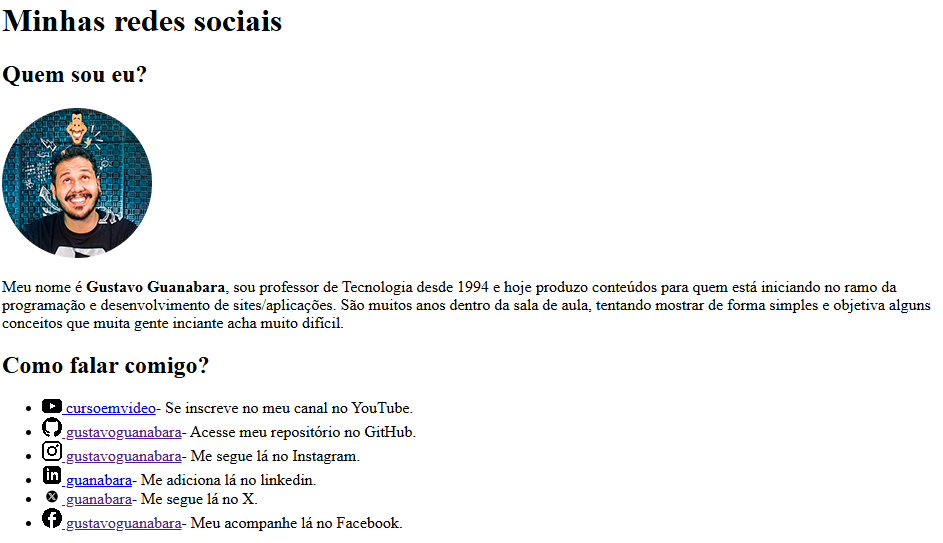
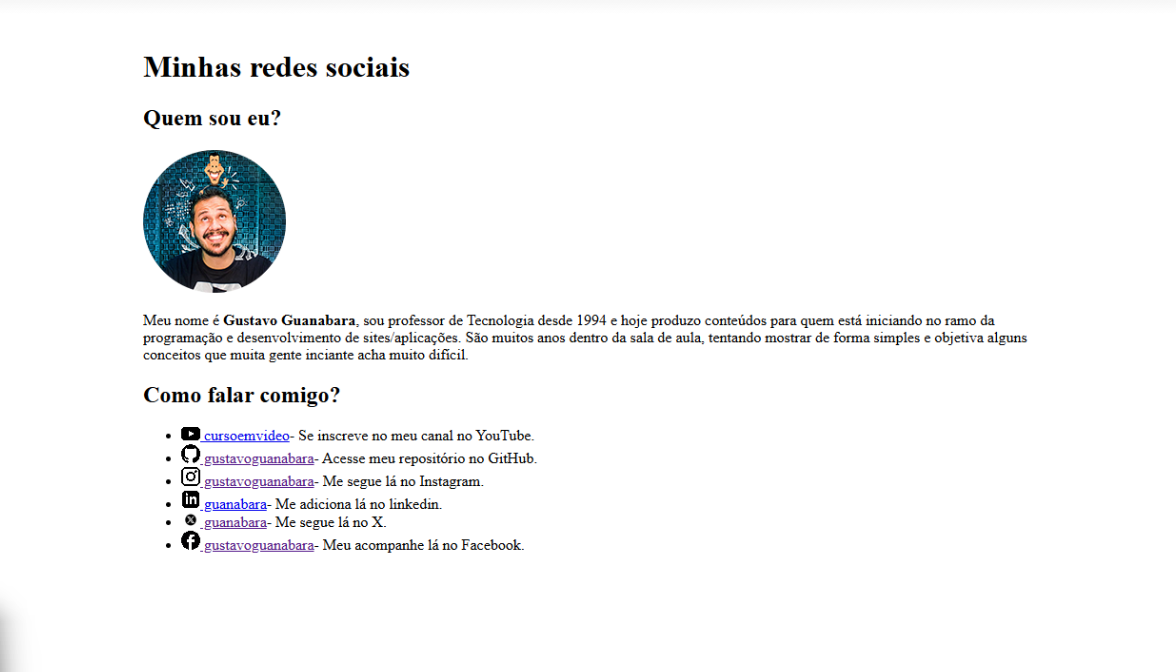
adicionando portifolio

Changed region(s): [[0.0, 0.0, 0.9841, 1.0]]

diff --git a/index.html b/index.html
@@ -208,10 +208,10 @@
 
                         <div id="projeto-container">
                             <div class="projeto">
-                                <img src="imagens/projeto-01-videos.jpg" alt="" class="foto">
+                                <img src="imagens/projeto-1html.png" alt="" class="foto">
                                 <div class="projeto-info">
                                     <p class="periodo">2022</p>
-                                    <h3 class="titulo">Projeto de vídeos</h3>
+                                    <h3 class="titulo">Primeiro projeto em HTML</h3>
                                     <p>Projeto construído para inserção de vídeos em nosso site.</p>
                                     <details class="descricao">
                                         <summary>Saiba mais...</summary>
